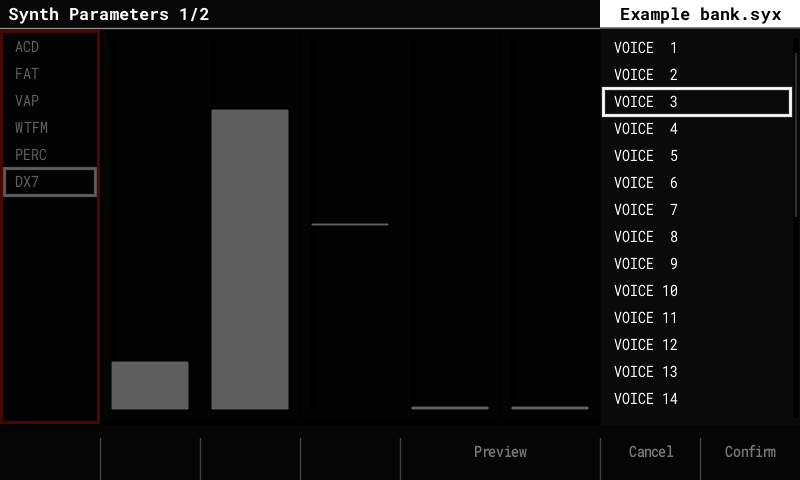
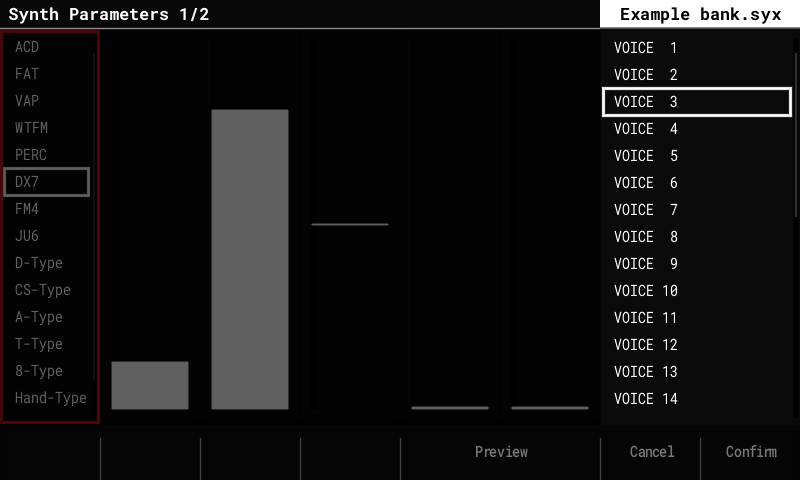
Docs: Edit Patch and synth help; help files in the release zip; DX7 shots find DX7 again
- docs/guide/edit-patch.md: the three columns, the keys, the help box and
  writing a help file; install.md and more.md point to it; a B-Type shot.
- release.yml: make help, Help/Synths/ in Modules.zip next to Modules/.
- docs/dev/docs.md: synth help files (make help, the check).
- docs_screens.sh and fork_screens.txt picked DX7 with five Downs, which
  lands on D-Type since the model list grew: they go to the last model and
  back up. The DX7 shots are retaken; the DX7 Edit Patch budget stays 680
  (621 words now).
- docs_screens.sh puts the help files' card copies on its scratch cards.

diff --git a/docs/guide/edit-patch.md b/docs/guide/edit-patch.md
@@ -1,0 +1,58 @@
+# Edit Patch and synth help
+
+**Edit Patch** (Instrument Params on a synth slot, then **F8**) shows every setting of the
+slot's synth. In this fork it's laid out like **Config**, and a help box explains whatever
+you're on.
+
+![Edit Patch on B-Type: Channel, Distortion, Poly5](../images/edit-patch.png)
+
+## The layout
+
+Three columns, left to right:
+
+| Column | Shows |
+|---|---|
+| Sections | the synth's groups of settings (Channel, Envelope, Macro 1 …) |
+| Settings | the settings of the selected section, with their values |
+| Value | the selected setting's value: a list of choices, or a bar for a number |
+
+- **Left / Right** move the red frame from column to column.
+- **Up / Down** and the **knob** move inside the framed column: in the value column they
+  change the setting. In a list, Down goes down the list; on a bar, Up raises the value.
+- **F5 / F7** move to the previous / next setting and **F6** to the next section, wherever
+  the frame is.
+- **Delete** puts the selected setting back to its Init value.
+- **F1 Save**, **F2 Save As**, **F3 Init Patch** and **F8 Back** work as before.
+- **All 48 pads play** the synth while you edit (stock picks the section with the pads).
+
+## The help box
+
+Under the columns, three lines:
+
+1. the **section**: what the group is for;
+2. the **setting**: what it does;
+3. the **choice** you're on, or for a number, what low and high values do.
+
+For example, on B-Type's **Channel > Distortion** with **Poly5**: "Channel: the main voice,
+a chip square wave and how buzzy it is", "Distortion: how the square is shaped", "Poly5: a
+5-step pattern".
+
+The texts come from the SD card, `Help/Synths/<SYNTH>.md` (in `Modules.zip` on the release
+page, next to the card modules; see [Install the modules](../install.md#install-the-modules)).
+Without the file the box says which one is missing, and everything else works as usual.
+
+So far **B-Type** has a help file; the other synths follow.
+
+## Writing a help file
+
+Each synth's help is a Markdown file next to its code in the module repository,
+`modules/<synth>/help/<SYNTH>.md`. It has two parts:
+
+- a **guide** for these docs (how the synth works, tips), free Markdown;
+- **`# Settings`**, the short reference the help box shows: `##` a section, `###` a
+  setting, `- Choice: text` for each choice, named exactly as on screen, with one short
+  paragraph under each heading.
+
+Only the reference goes on the card. `make host-test` checks it against the synth: every
+section, setting and choice needs a line, and each line has to fit the box. The format is
+in `src/core/modules/synth_help.h`.

diff --git a/docs/dev/docs.md b/docs/dev/docs.md
@@ -39,3 +39,19 @@ site per version on the `gh-pages` branch:
 - every push to `main` updates **dev**;
 - once the fork makes releases, each release tag will add its version, and the version
   picker at the top will switch between them.
+
+## Synth help files
+
+Each synth's help lives next to its code in the module repository,
+`modules/<synth>/help/<NAME>.md` (`NAME` = the descriptor's name, e.g. `BTYPE`): a guide
+for the docs, then the `# Settings` reference that the Edit Patch help box reads
+(format in `src/core/modules/synth_help.h`, user view in
+[Edit Patch and synth help](../guide/edit-patch.md)).
+
+- `make help` (and `make firmware`) writes the card copies, the reference only, to
+  `build/<profile>/Help/Synths/` (`tools/synth_help_card.py`); the release puts them in
+  `Modules.zip`.
+- `make host-test` (`tests/synth_help_test.cpp`) checks every help file of the profile's
+  modules against the descriptor: names, full coverage, no markup, the widest font fits.
+- Describe what a setting does. Wording about how something sounds goes in only after it
+  has been heard on the device.

diff --git a/docs/install.md b/docs/install.md
@@ -32,10 +32,11 @@ firmware image: they are **card modules**, `.otm` files the Tracker loads from t
 The five Mini synths (ACD, FAT, VAP, WTFM, PERC) are built in and need nothing.
 
 1. Download **`Modules.zip`** from the same release as the firmware.
-2. Unzip it. It holds one folder, `Modules`, with the `.otm` files.
-3. Copy the **`Modules`** folder to the top of the SD card, so the files sit in
-   `/Modules/` (for example `/Modules/dx7.otm`). If a `Modules` folder is already there,
-   **replace all of its files**.
+2. Unzip it. It holds two folders: `Modules`, with the `.otm` files, and `Help`, with the
+   synths' help texts for [Edit Patch](guide/edit-patch.md).
+3. Copy both folders to the top of the SD card, so the files sit in `/Modules/` (for
+   example `/Modules/dx7.otm`) and `/Help/Synths/`. If the folders are already there,
+   **replace all of their files**.
 4. Restart the Tracker.
 
 What's in it:

diff --git a/docs/guide/more.md b/docs/guide/more.md
@@ -217,9 +217,9 @@ The 2.x line brings the newer Tracker features to the original hardware. In shor
 - **Voices:** a shared pool of 4 by default, adjustable in **Config > General > Synth
   voices** (1–8). If the audio gets close to its limit, only synth voices are cut; sample
   tracks never are.
-- Screens after the Mini's layout: Synth Parameters, Synth Macros, Edit Patch (sections on
-  the pads; Save, Save As, Init), the Load Patch popup with Preview, and the synth level
-  columns on Global Mixer page 3.
+- Screens after the Mini's layout: Synth Parameters, Synth Macros, the Load Patch popup
+  with Preview, and the synth level columns on Global Mixer page 3. In this fork
+  **[Edit Patch](edit-patch.md)** is laid out like Config, with a help box.
 - Exports include separate stems `synth_1..3.wav`.
 
 ### Export sample rate
